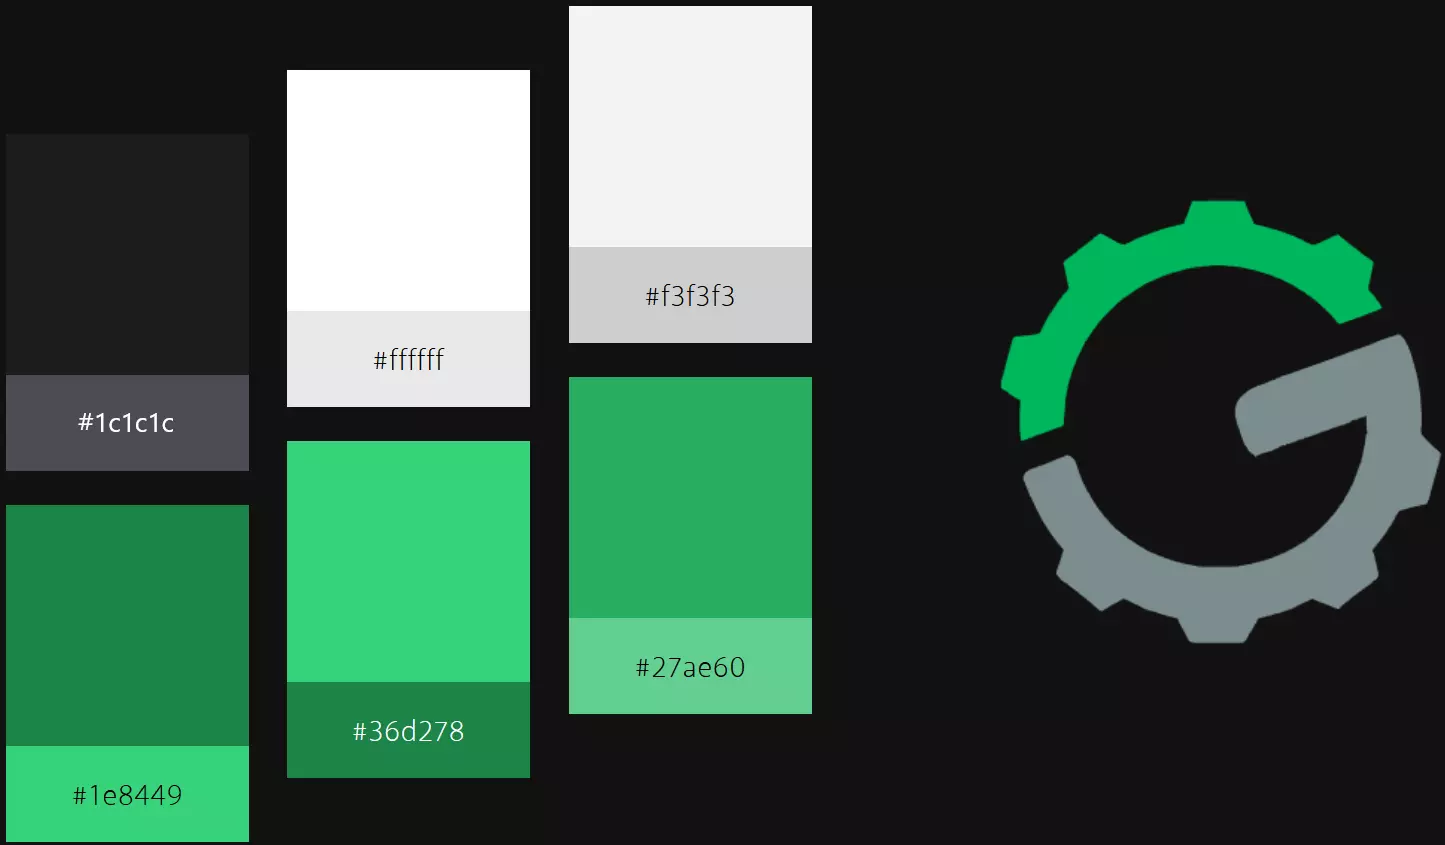
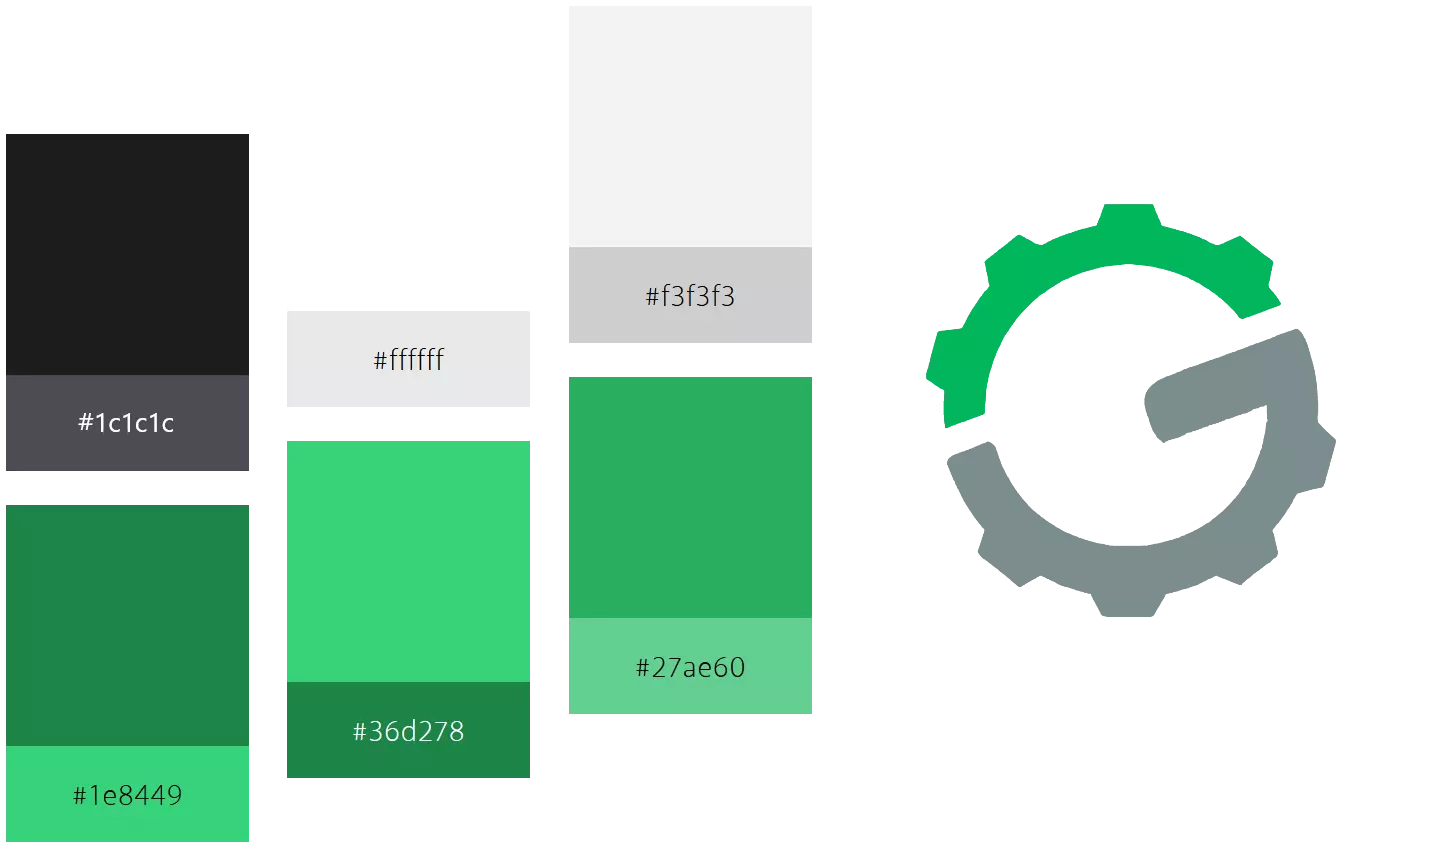
Fixed projects' colors and branding to be visually friendly between themes.

diff --git a/src/screens/BellsGC.js b/src/screens/BellsGC.js
@@ -15,7 +15,8 @@ import Placeholder from '../assets/placeholder.png';
 import Background from '../assets/BellsGC/background.webp';
 import Render from '../assets/BellsGC/BellsGC.webp';
 import RenderPlaceholder from '../assets/BellsGC/BellsGCPlaceholder.png';
-import Branding from '../assets/BellsGC/branding.webp';
+import BrandingDark from '../assets/BellsGC/brandingDark.webp';
+import BrandingLight from '../assets/BellsGC/brandingLight.webp'
 import Splash from '../assets/BellsGC/Splash.webp';
 import Home from '../assets/BellsGC/Home.webp';
 import Store from '../assets/BellsGC/Store.webp';
@@ -95,7 +96,7 @@ function BellsGC(props) {
             </SidebarImagesText>
             <SidebarImages>
               <SidebarImage
-                srcSet={`${Branding}`}
+                srcSet={`${currentTheme.id === 'dark' ? BrandingDark : BrandingLight}`}
                 placeholder={Placeholder}
                 alt=""
                 sizes={`(max-width: ${media.mobile}) 500px, (max-width: ${media.tablet}) 800px, 1000px`}
